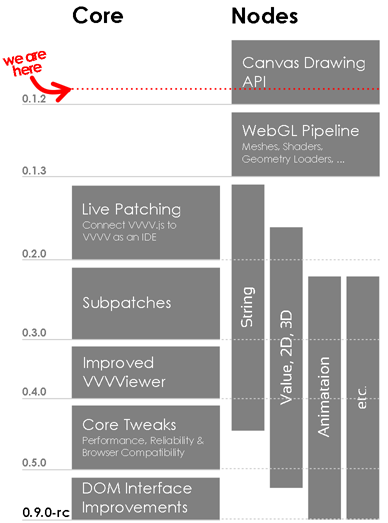
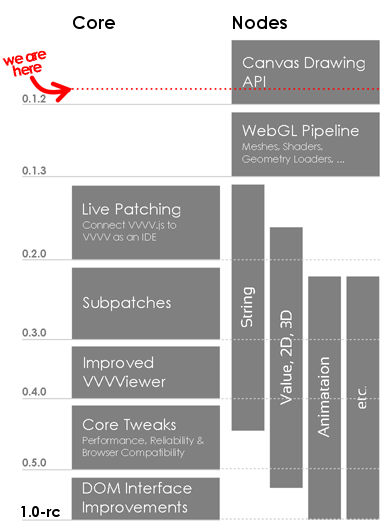
changed text and roadmap

Changed region(s): [[0.5876, 0.0, 0.7732, 0.0612], [0.1856, 0.0, 0.3093, 0.0612], [0.0619, 0.9484, 0.1856, 1.0]]

diff --git a/blog.html b/blog.html
@@ -1,26 +1,26 @@
 <div class="blog_post">
-  <h2>VVVV.js' road to 1.0 (or 0.9.0-rc)</h2>
+  <h2>VVVV.js' road to 1.0</h2>
   <div class="blog_meta">Posted: August 16th, 2011</div>
   <p>
-    Many of you might wonder how this VVVV.js thing is going to evolve, and if and when it will be actually usable. So probably it's time to create a rough plan with
-    some milestones, that have to be accomplished.
+    Many of you might wonder how this VVVV.js thing is going to evolve, and when it will be actually usable, if at all. So probably it's time to create a rough plan with
+    <b>some milestones</b>, that have to be accomplished.
   <p>
   <p>
     Of course, the roadmap below is not carved in stone at all. Rather, it's an overview of the things that have to be tackled, and of when this might happen.
   </p>
   <img src="vvvvjsroadmap.png"/>
   <p>
-    As you can see, we're first heading for some visual showing-off to find out, what's possible in terms of Canvas 2D and WebGL 3D graphics (In fact, the set of Canvas drawing
+    As you can see, we're first heading for some visual bragging to find out, what's possible in terms of <b>Canvas 2D and WebGL 3D graphics</b> (In fact, the set of Canvas drawing
     nodes will be released this week).
   </p>
   <p>
-    After this, we will deal with ways to connect VVVV to the browser, to simplify the development process, and create the VVVV-typical patch-while-running experience. Simultaneiously,
+    After this, we will deal with ways to connect VVVV to the browser, to simplify the development process, and create the <b>VVVV-typical patch-while-running experience</b>. Simultaneiously,
     lots of the many utility nodes should be ported at this stage, beginning with String and Value nodes, to pave the way for some data visualization demos.
   </p>
   <p>
-    Other steps are handling subpatches, getting rid of VVVViewer glitches and of course performance optimization.
+    Other steps include handling <b>subpatches</b>, getting rid of <b>VVVViewer glitches</b> and of course <b>performance optimization</b>.
   <p>
-    As you can see, there's a bunch of work to do, and we could really use some help. If you're interested in any particular component, get in touch with us!
+    As you can see, there's a bunch of work to do, and we could really use some help. If you're interested in any particular component, <b>get in touch with us!</b>
   </p>
 </div>
 
